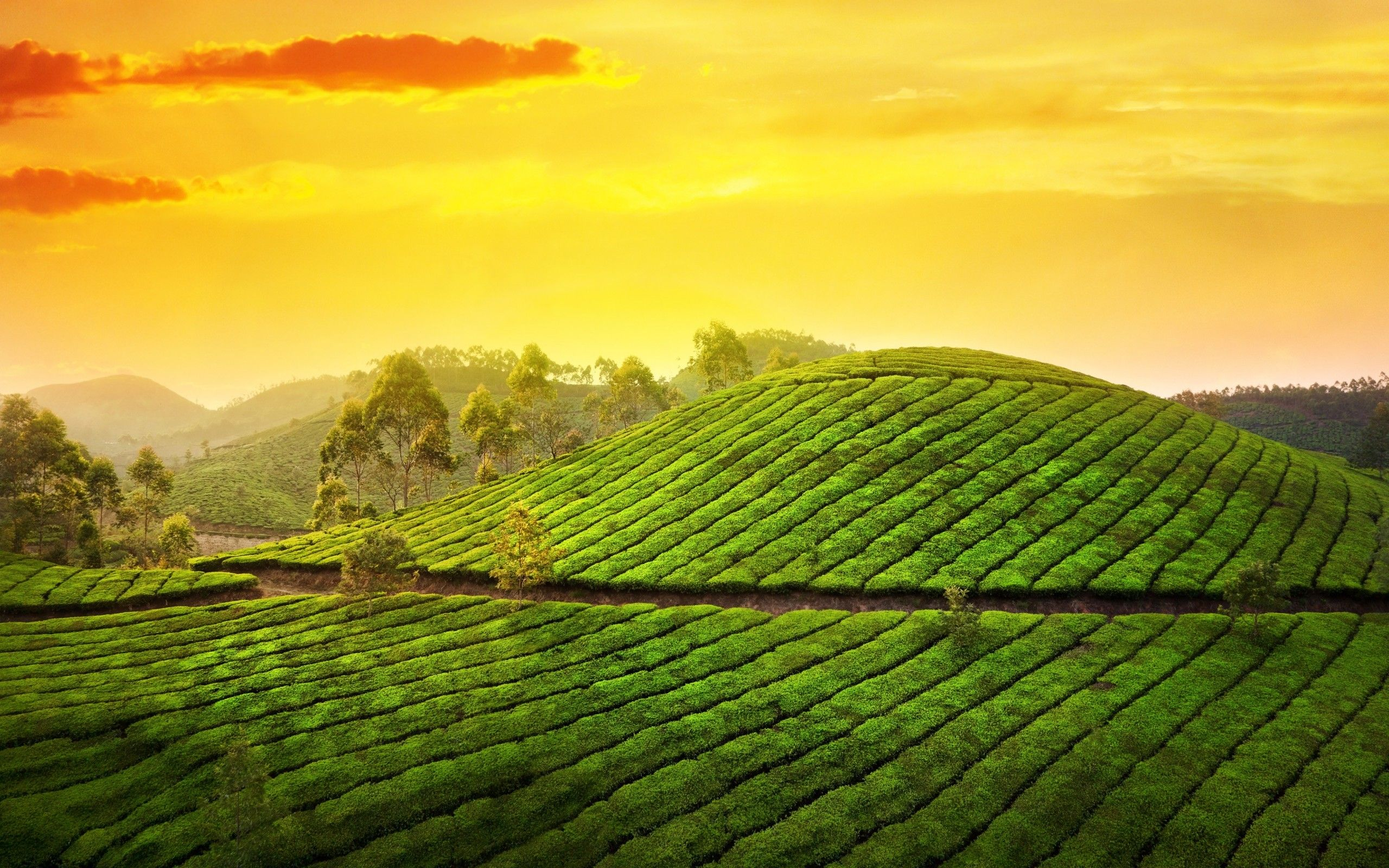
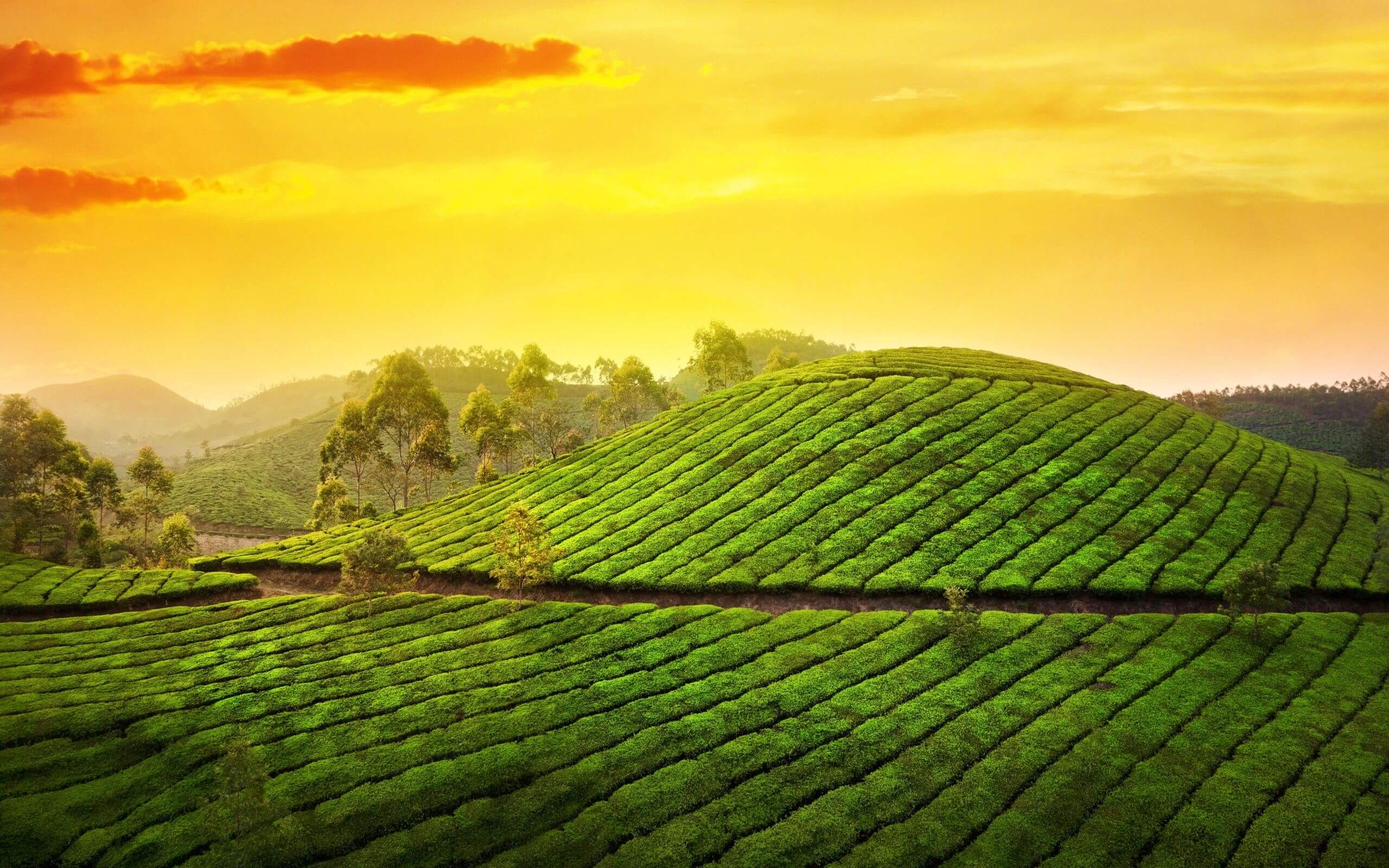
added

diff --git a/components/home/HeaderHero.js b/components/home/HeaderHero.js
@@ -1,55 +1,13 @@
 import { AiOutlineArrowRight } from "react-icons/ai";
-const styles = {
-  container: {
-    position: "relative",
-    backgroundImage: `url(${"https://i.ibb.co/0hy2GWR/Rectangle-45.png"})`,
-    height: "500px",
-    opacity: 0.5,
-  },
-  text: {
-    position: "absolute",
-    top: "50%",
-    left: "50%",
-    transform: "translate(-50%, -50%)",
-    backgroundColor: "rgba(255, 255, 255, 0.7)",
-    color: "#fff",
-    fontSize: "24px",
-    fontWeight: "bold",
-    // textAlign: 'center',
-    padding: "10px",
-  },
-};
+import Image from "next/image";
+
+const myImage = "/nav-header.png";
+
 const HeaderHero = () => (
-  // <header
-  //   className="hero d-flex align-items-center  " style={styles.container}
-  //   // style={{
-  //   //   backgroundImage: "url(https://i.ibb.co/0hy2GWR/Rectangle-45.png)",
-  //   //   backgroundSize: "cover",
-  //   //   opacity: 0.5,
-  //   //   backgroundPosition: "center",
-  //   //   height: "100vh",
-  //   // }}
-  // >
-  //   <div className="row align-items-center justify-items-center ">
-  //     <div className="col-8">
-  //       <div className="container text-white ">
-  //         <h1 className="fs-2 fw-bolder p-2 text-white" style={styles.text}>Health Benefits Of Tea Fresh Green Tea</h1>
-  //         <p className="lead py-3 my-1 text-white">Tea is Good your health.</p>
-  //         <button className="d-flex align-items-center  fw-bolder btn  btn-lg text-white" style={{backgroundColor:'#E49E48'}}>Shop Now
-  //         <AiOutlineArrowRight className="ms-2"/>
-  //         </button>
-  //       </div>
-  //     </div>
-  //     <div className="col-4">
-
-  //     </div>
-  //   </div>
-  // </header>
-
   <div
     className="px-1 py-5  "
     style={{
-      backgroundImage: "url(https://i.ibb.co/0hy2GWR/Rectangle-45.png)",
+      backgroundImage: "url(https://i.ibb.co/swjQ7vh/tea-garden.jpg)",
       backgroundSize: "cover",
       opacity: 1,
       backgroundPosition: "center",
@@ -63,12 +21,22 @@ const HeaderHero = () => (
     >
       <div className="col-md-6 col-xl-6 mb-4 mb-lg-0 ">
         <div className="lc-block position-relative ">
-          <img
+          {/* <img
             className="ms-5  w-50 img-fluid rounded shadow"
             src="https://i.ibb.co/brH8NNP/nav-header.png"
             sizes="(max-width: 3840px) 100vw, 384px"
             width={384}
             height
+            alt="Photo by sultan tea"
+          /> */}
+
+          <Image
+            height={500}
+            quality={75}
+            src={myImage}
+            className="ms-5  w-50 img-fluid rounded shadow"
+            sizes="(max-width: 3840px) 100vw, 384px"
+            width={384}
             alt="Photo by sultan tea"
           />
           {/* <a className="position-absolute top-50 start-50 translate-middle glightbox d-flex justify-content-center align-items-center" href="https://www.youtube.com/watch?v=BKgpLOUYZJ4"> */}
